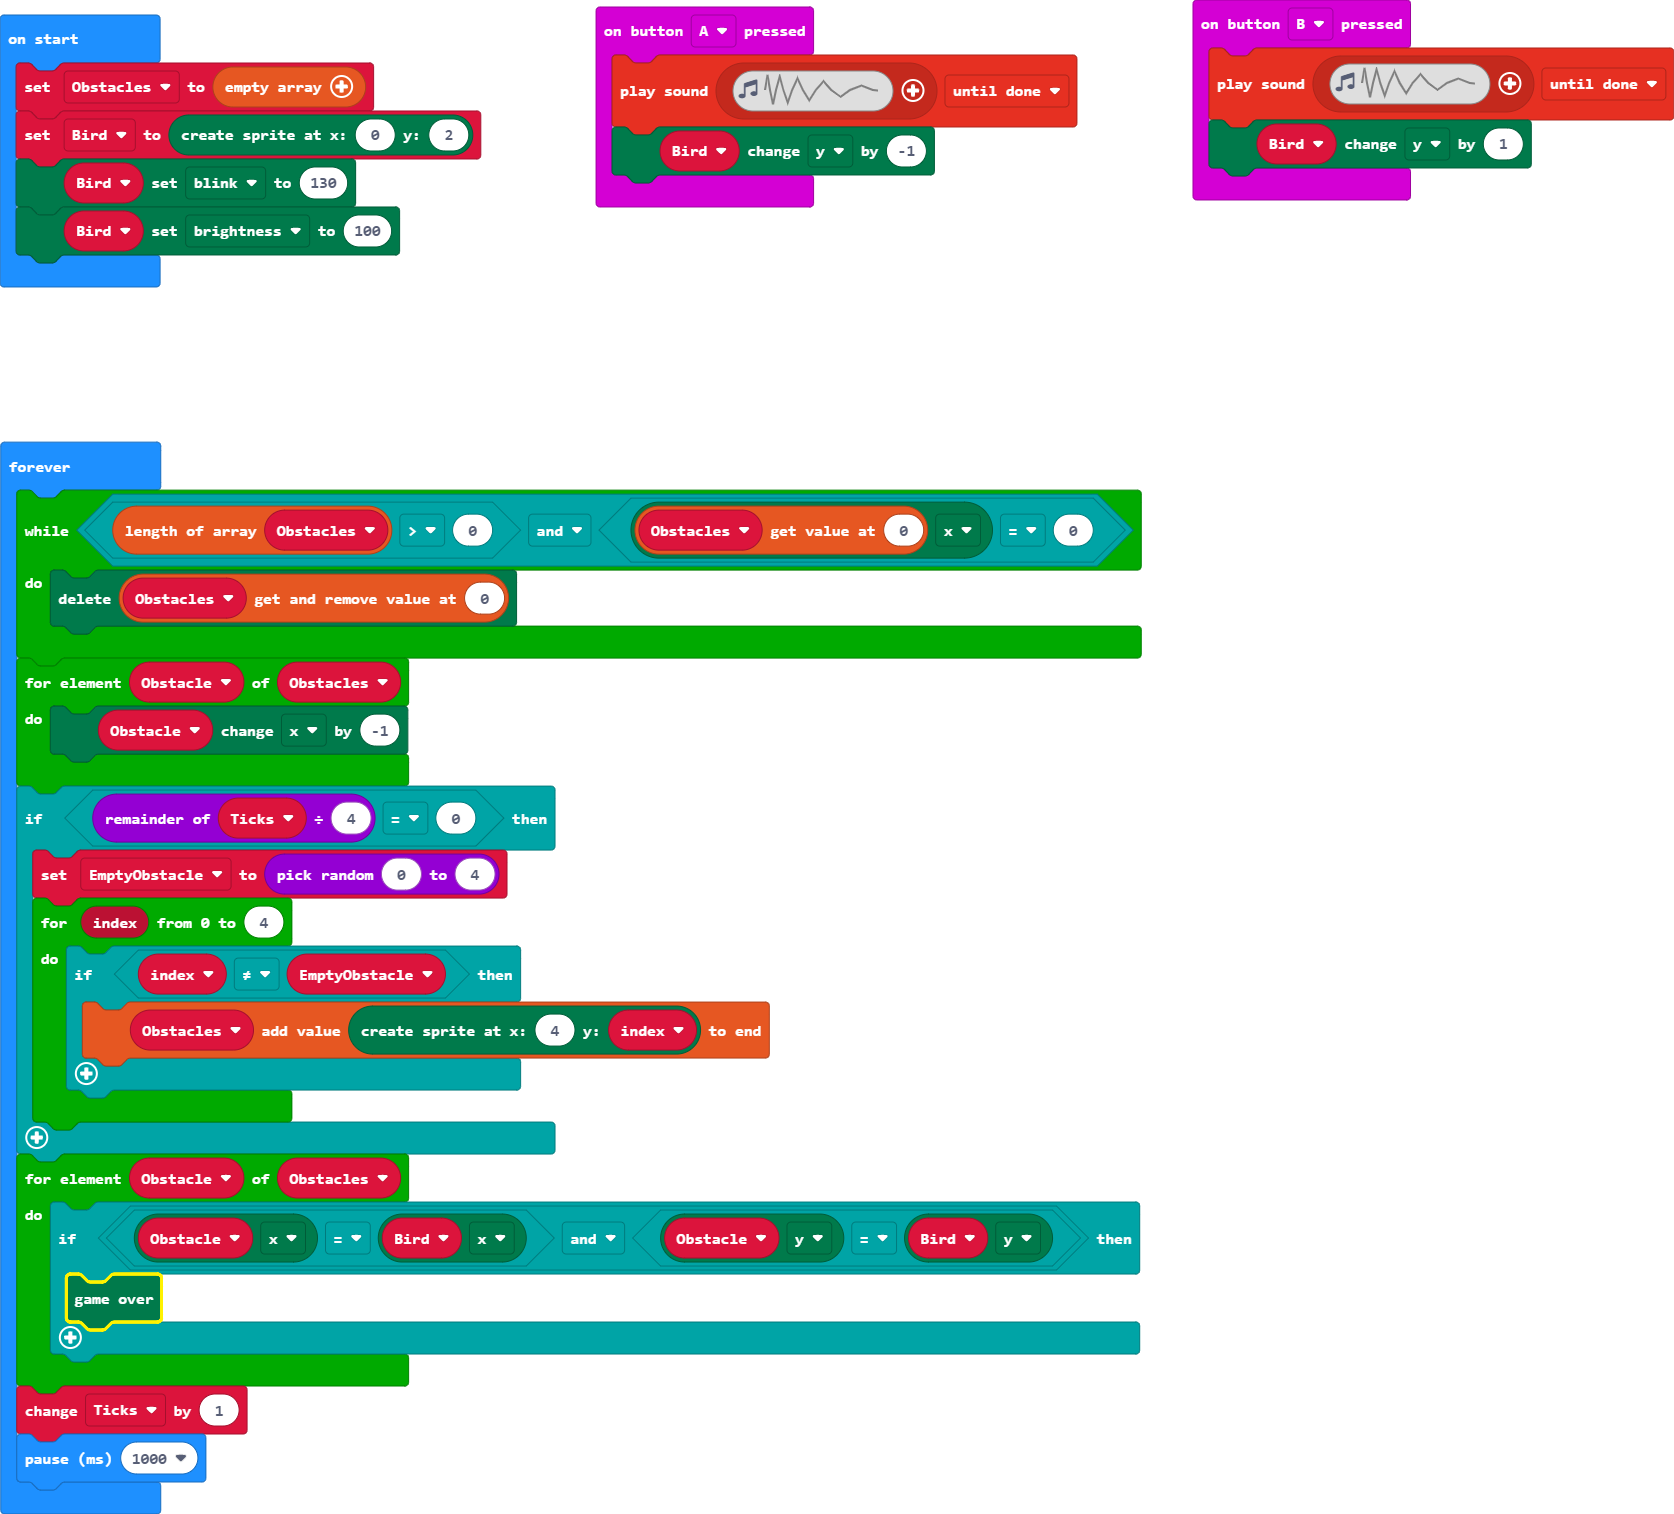
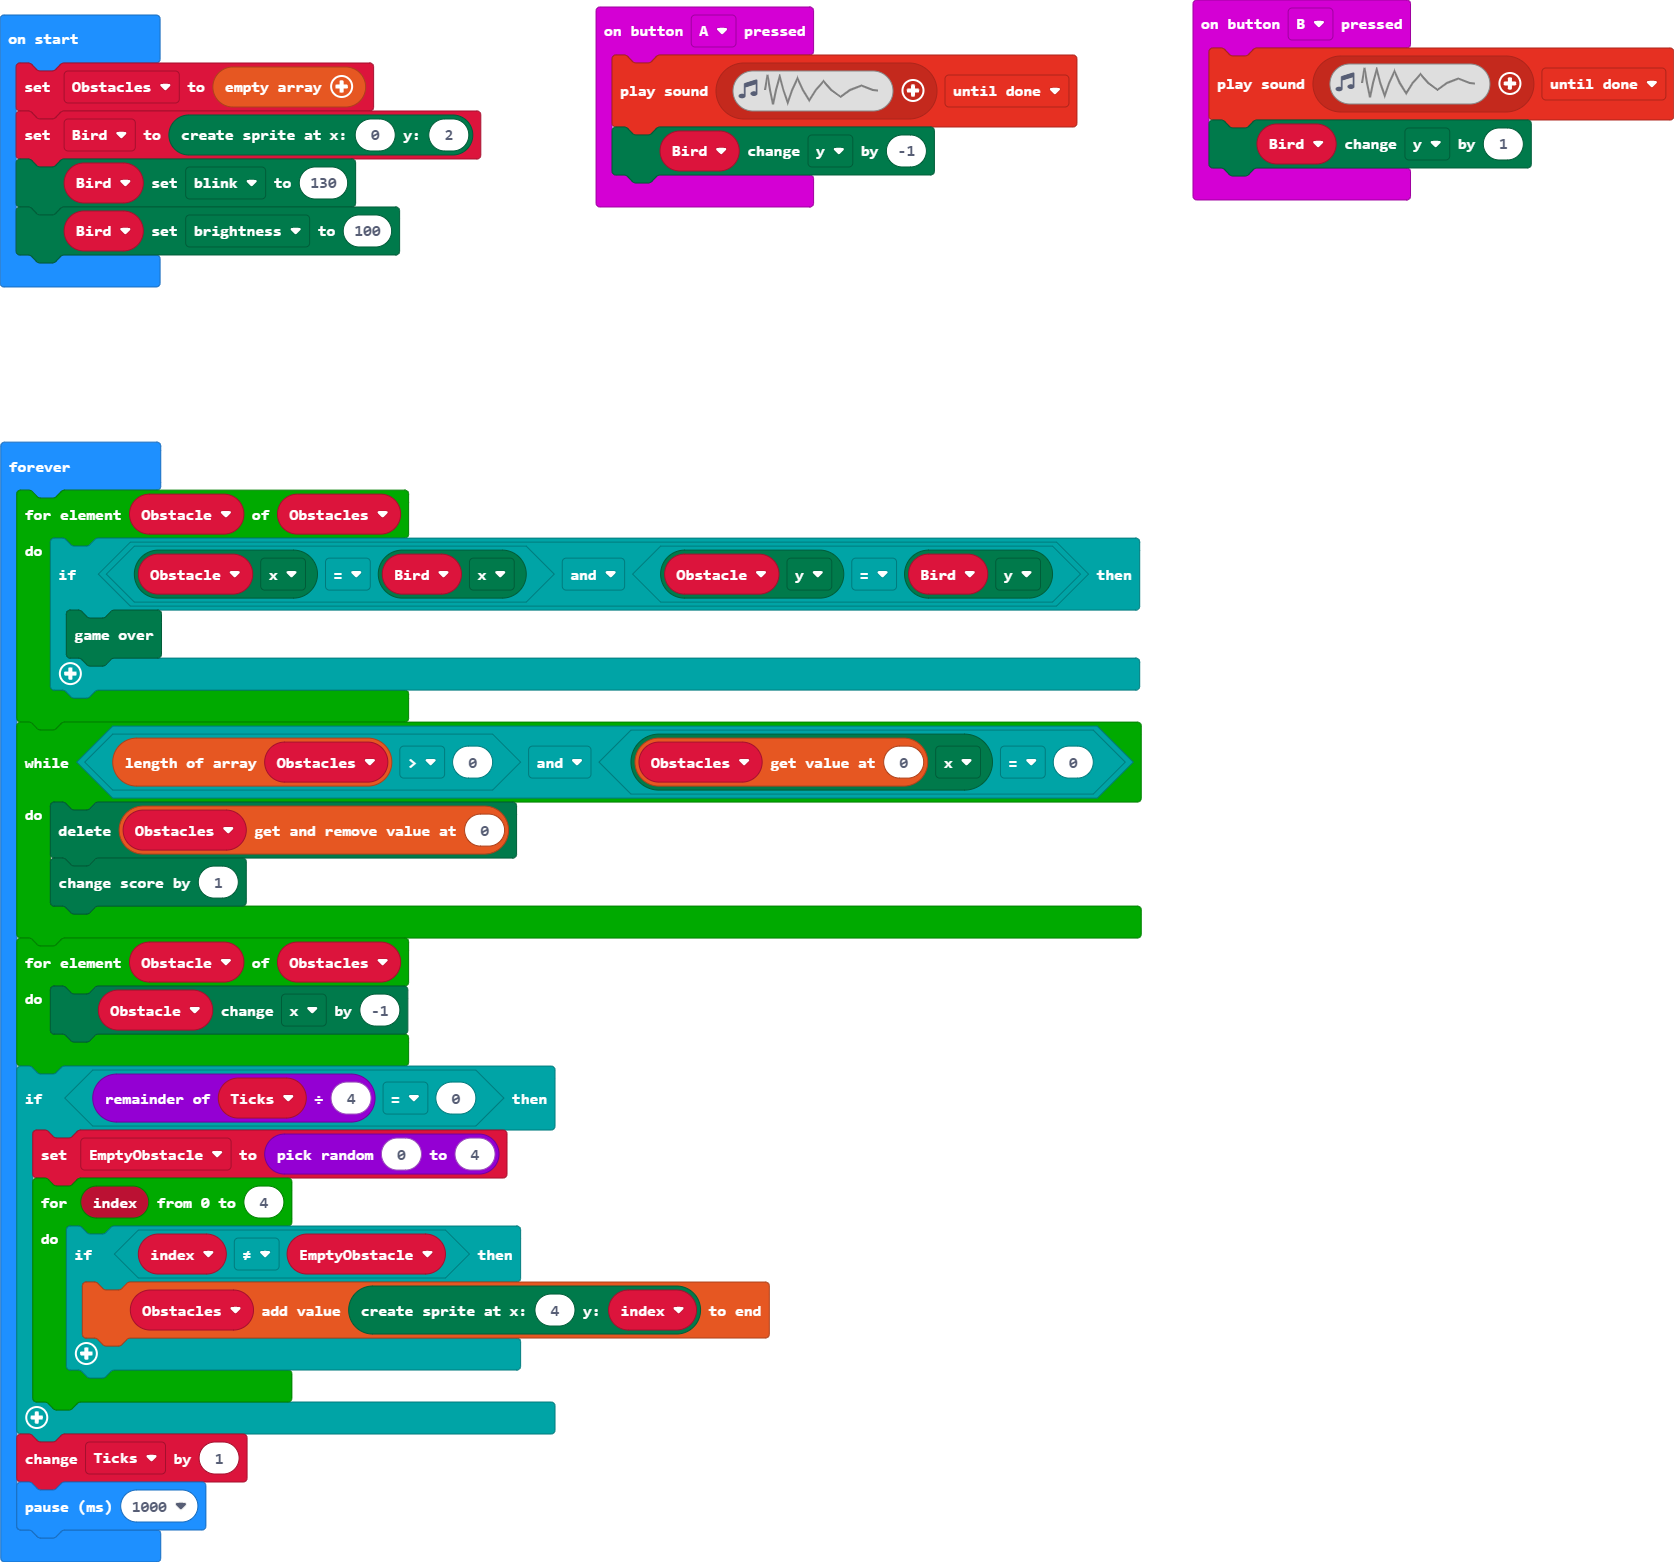
minor

diff --git a/main.ts b/main.ts
@@ -14,8 +14,14 @@ Bird = game.createSprite(0, 2)
 Bird.set(LedSpriteProperty.Blink, 130)
 Bird.set(LedSpriteProperty.Brightness, 100)
 basic.forever(function () {
+    for (let Obstacle of Obstacles) {
+        if (Obstacle.get(LedSpriteProperty.X) == Bird.get(LedSpriteProperty.X) && Obstacle.get(LedSpriteProperty.Y) == Bird.get(LedSpriteProperty.Y)) {
+            game.gameOver()
+        }
+    }
     while (Obstacles.length > 0 && Obstacles[0].get(LedSpriteProperty.X) == 0) {
         Obstacles.removeAt(0).delete()
+        game.addScore(1)
     }
     for (let Obstacle of Obstacles) {
         Obstacle.change(LedSpriteProperty.X, -1)
@@ -26,11 +32,6 @@ basic.forever(function () {
             if (index != EmptyObstacle) {
                 Obstacles.push(game.createSprite(4, index))
             }
-        }
-    }
-    for (let Obstacle of Obstacles) {
-        if (Obstacle.get(LedSpriteProperty.X) == Bird.get(LedSpriteProperty.X) && Obstacle.get(LedSpriteProperty.Y) == Bird.get(LedSpriteProperty.Y)) {
-            game.gameOver()
         }
     }
     Ticks += 1
